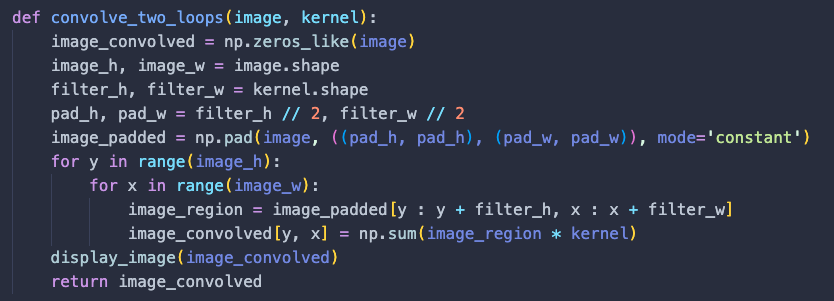
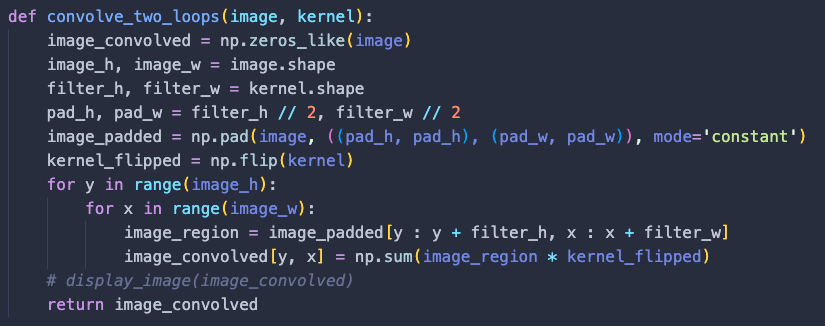
finished project 2

Changed region(s): [[0.0, 0.0299, 0.9697, 0.9867]]

diff --git a/2/index.html b/2/index.html
@@ -107,9 +107,22 @@
                     The first part of this project involves implementing convolutions from scratch,
                     using only NumPy operations. There are multiple ways to do this. Below are two
                     approaches: a naive approach uses four for loops and a vectorized approach uses
-                    two, where the runtime of the latter is improved significantly.
+                    two, where the runtime of the latter is improved significantly. In both cases,
+                    the process is as follows: pad the images with zeros, flip the kernel (this
+                    distinguishes convolutions from cross-correlation), iterate through the entire
+                    image in row-major order, sum up the elementwise products between the image and
+                    the kernel within each window, return the convolved image.
                 </p>
 
+                <div class="image-grid">
+                    <div class="image-pair">
+                        <img
+                            src="in_path/convolution_formula.png"
+                            alt="The Formula for Discrete Convolutions"
+                        />
+                        <p>The Formula for Discrete Convolutions</p>
+                    </div>
+                </div>
                 <div class="image-grid">
                     <div class="image-pair">
                         <img src="in_path/conv_4.png" alt="Convolutions (Four Loops)" />
@@ -181,9 +194,23 @@
                 <p>
                     To showcase the power of finite difference operators, I computed the partial
                     derivative in x and y of the cameraman image. Then, I computed the binarized
-                    gradient magnitude image.
+                    gradient magnitude image, for which I needed to qualitatively compute an
+                    appropriate threshold. Ultimately, I ended up choosing 0.3: values closer to 0.2
+                    were too lenient and ended up showing a lot of the grass edges, which were not
+                    of any interest, and values closer to 0.4 were too harsh and ended up removing
+                    many of the important edges, such at those seen on the coat of the man and on
+                    the legs of the camera.
                 </p>
 
+                <div class="image-grid">
+                    <div class="image-pair">
+                        <img
+                            src="in_path/gradient_magnitude.png"
+                            alt="The Formula for the Gradient Magnitude of an Image"
+                        />
+                        <p>The Formula for the Gradient Magnitude of an Image</p>
+                    </div>
+                </div>
                 <div class="image-grid">
                     <div class="image-pair">
                         <img src="in_path/cameraman.png" alt="Cameraman Image" />
@@ -210,16 +237,21 @@
             <div class="section">
                 <h2>Derivative of Gaussian (DoG) Filter</h2>
                 <p>
-                    Since having the difference operator alone does nothing to get rid of noise in
-                    the results, I used the Gaussian filter to first blur the image, then compute
-                    the binarized gradient magnitude. By doing this, one can get rid of the noise in
-                    the image and capture the most prominent edges. This can also be done by
-                    creating derivate of gaussian (DoG) filters, where the gaussian is convolved
-                    with D_x and D_y, then used to compute the gradient magnitude image. The results
-                    of both methods are shown below, as well as the filters themselves
-                    (kernel_size=25, sigma=5).
+                    Since having the difference operator alone has some difficulties getting rid of
+                    the noise in the results, I used the Gaussian filter to first blur the image,
+                    then compute the binarized gradient magnitude. By doing this, one can get rid of
+                    the noise in the image and capture the most prominent edges. This can also be
+                    done by creating derivate of gaussian (DoG) filters, where the gaussian is
+                    convolved with D_x and D_y, then used to compute the gradient magnitude image.
+                    The results of both methods are shown below (which achieve very similar
+                    results), as well as the filters themselves. For the parameters of the Gaussian
+                    filter, I ended up choosing the kernel size to be 25 and the sigma to be 5; A
+                    larger kernel size equates to a larger blurring window during convolutions, and
+                    a larger sigma value means that the kernel's underlying Gaussian distribution
+                    has more spread, which means that the blur is more pronounced. I found that
+                    these values gave me enough blur in order to effectively reduce a lot of the
+                    noise.
                 </p>
-
                 <div class="image-grid">
                     <div class="image-pair">
                         <img
@@ -254,12 +286,27 @@
                 <p>
                     Now that we can do basic convolutions on images, it is now possible to take a
                     blurry image and "sharpen" it. This is done using the unsharp masking technique.
-                    In essense, you subtract the blurred image from the original image, and this
-                    acts as a high pass filter (alpha=5). These high frequencies are added to the
-                    original image to get a "sharp" look. This process can be combined into a single
-                    convolution operation called the unsharp mask filter. Results of this filter on
-                    multiple images are shown below.
+                    The idea is to construct a high-pass filter in order to extract the highest
+                    frequencies of an image, which make the image look sharp. This high-pass filter
+                    is derived by subtracting the blurred image from the original image. These high
+                    frequencies are added to the original image to get a sharp look. You can adjust
+                    the intensity of the sharpness by scaling these high frequencies by a parameter,
+                    alpha. In the examples that follow, alpha was chosen to be 5, which strikes a
+                    balance between modest sharpening and the distorted "deep-fried" look associated
+                    with higher parameter values. In addition, this entire process can be combined
+                    into a single convolution operation called the unsharp mask filter, which is the
+                    result of the rightmost equality in the derivation below. Attached are results
+                    of the unsharp masking on a variety of images.
                 </p>
+                <div class="image-grid">
+                    <div class="image-pair">
+                        <img
+                            src="in_path/unsharp_mask_filter.png"
+                            alt="The Derivation of the Unsharp Mask Filter"
+                        />
+                        <p>The Derivation of the Unsharp Mask Filter</p>
+                    </div>
+                </div>
                 <div class="image-grid-3">
                     <div class="image-pair">
                         <img src="in_path/taj.jpg" alt="The Taj Mahal" />
@@ -319,9 +366,9 @@
                 </div>
 
                 <p>
-                    You can also take an image, blur it, and try to sharpen it again. It's difficult
-                    to recover the original image, but you can get pretty close. Here is an example
-                    of that:
+                    You can also take an image, blur it, and try to sharpen it again. It turns out
+                    that by have a kernel size of 9, sigma of 1, and alpha of 3, you can get pretty
+                    close to the original image. Here is an example of that:
                 </p>
                 <div class="image-grid-3">
                     <div class="image-pair">
@@ -346,7 +393,12 @@
                     respectively, it is possible to create hybrid images, or images that change
                     based on the viewing distance. This is possible by taking the high frequency
                     portion of one image and stacking it on top of the lower frequency portion of
-                    another image. Below is an example of a hybrid image on Derek and Nutmeg.
+                    another image. In order to find the optimal cutoff frequencies and achieve the
+                    best resulting hybrid images, I chose the following parameters for blurring the
+                    first image and sharpening the second: kernel size = 25, alpha = 3, sigma1 = 5,
+                    sigma2 = 5. After much experimentation, I found that this specific configuration
+                    of parameters made both images noticable at their respective viewing distances.
+                    Below is an example of a hybrid image on Derek and Nutmeg.
                 </p>
                 <div class="image-grid-3">
                     <div class="image-pair">
@@ -387,9 +439,11 @@
                 <p>
                     Finally, here is an example of a hybrid image between two presidents: George
                     Washington and Thomas Jefferson. This time, I have included images documenting
-                    the entire process, including intermediate images showing the log magnitude of
-                    the Fourier Transform. Notice how lower-frequency images have more activity near
-                    the center, whereas higher-frequency images have more activity near the edges.
+                    the entire process, such as blurred and sharpened images, as well as showing the
+                    log magnitude of the Fourier Transform for each of these images (aside: both
+                    images already came pre-aligned). Notice how lower-frequency images have more
+                    activity near the center, whereas higher-frequency images have more activity
+                    near the edges.
                 </p>
                 <div class="image-grid">
                     <div class="image-pair">
@@ -466,17 +520,35 @@
                 </div>
             </div>
             <div class="section">
-                <h2>Gaussian and Laplacian stacks</h2>
+                <h2>Gaussian Stacks, Laplacian Stacks, and Multiresolution Blending</h2>
                 <p>
-                    Now, the goal is to implement mutli-resolution blending, or joining two images
+                    Now, the goal is to implement multi-resolution blending, or joining two images
                     across a smooth seam, called an image spline. This is done by computing this
-                    seam for multiple bands across the entire range of image frequencies. This
-                    ensures a smooth transition between the two images.
+                    seam for multiple bands across the entire range of image frequencies. The
+                    process is quite involved, and is as follows: create laplacian stacks for both
+                    images, then create a gaussian stack for the mask (which will blur the seam and
+                    make the transition smooth). Now, on a layer-by-layer basis, add the
+                    multiplication of the blurred mask and the lth image of image 1's laplacian
+                    stack to the multiplication of the blurred mask's complement and the lth image
+                    of image 2's laplacian stack (this step is outlined in the formula below).
+                    Finally, sum up all the levels of resulting image blends to generate the final,
+                    blended image. This entire process is necessary in order to ensure that a smooth
+                    transition between the two images is created.
                 </p>
 
+                <div class="image-grid">
+                    <div class="image-pair">
+                        <img
+                            src="in_path/image_blending.png"
+                            alt="The Formula for the lth Layer of the Blended Image"
+                        />
+                        <p>The Formula for the lth Layer of the Blended Image</p>
+                    </div>
+                </div>
+
                 <p>
-                    First, we need to implement Gaussian stacks, which are a series of images where
-                    the Gaussian filter is successively applied, one after the other (without
+                    The first step is implementing Gaussian stacks, which are a series of images
+                    where the Gaussian filter is successively applied, one after the other (without
                     subsampling). Here is an example of these operations on a car:
                 </p>
                 <div class="image-grid">
@@ -517,7 +589,13 @@
 
                 <p>
                     Finally, we can generate the oraple, which is just a multi-resolution blend
-                    between an apple and an orange.
+                    between an apple and an orange. The entire process is displayed below: each row
+                    represents a layer of the mutliresolution blend, where the left image is the
+                    mask applied to image 1, the middle image is the mask complement applied to
+                    image 2, and the right image is the addition of the two. As you move down the
+                    rows, you also move down in the frequency bands of the image. The bottom-most
+                    row shows the resulting blends of that image's respective column, and the bottom
+                    right image is the final result.
                 </p>
 
                 <div class="image-grid-3">
@@ -577,12 +655,14 @@
                 </div>
             </div>
             <div class="section">
-                <h2>Multiresolution Blending</h2>
                 <p>
-                    Now, we have the tools to blend a variety of images together. Furthermore, these
-                    two images do not necessarily have to be joined across a vertical seam like the
-                    oraple shownn below. Here are two examples of multi-resolution blends across
-                    non-linear seams (e.g. circular).
+                    Now, we have the tools to blend a variety of images together. Further, these two
+                    images do not have to be joined across a vertical seam like the oraple. You can
+                    also construct a circular seam, which is generated by specifying a radius and
+                    zeroing out all pixels in the mask that are further than the radius away from
+                    the image center. This is more involved than the vertical seam, which simply
+                    zeroes out all pixels in the mask that are on the right-half of the image. Here
+                    are some examples of multi-resolution blends across both types of seams:
                 </p>
                 <div class="image-grid-3">
                     <div class="image-pair">
@@ -599,24 +679,24 @@
                     </div>
                 </div>
 
-                <!-- <div class="image-grid-3">
+                <div class="image-grid-3">
                     <div class="image-pair">
-                        <img src="in_path/tree.jpg" alt="A Tree" />
-                        <p>A Tree</p>
+                        <img src="in_path/pokeball.png" alt="A Poke Ball" />
+                        <p>A Poke Ball</p>
                     </div>
                     <div class="image-pair">
-                        <img src="in_path/desert.jpg" alt="A Desert" />
-                        <p>A Desert</p>
+                        <img src="in_path/greatball.png" alt="A Great Ball" />
+                        <p>A Great Ball</p>
                     </div>
                     <div class="image-pair">
-                        <img src="out_path/desert_tree.jpg" alt="A Tree in the Desert" />
-                        <p>A Tree in the Desert</p>
+                        <img src="out_path/hybrid_ball.jpg" alt="A Hybrid Ball" />
+                        <p>A Hybrid Ball</p>
                     </div>
-                </div> -->
+                </div>
 
                 <div class="image-grid-3">
                     <div class="image-pair">
-                        <img src="in_path/jordan.jpg" alt="Michael Jordan Crying" />
+                        <img src="in_path/crying_jordan.png" alt="Michael Jordan Crying" />
                         <p>Michael Jordan Crying</p>
                     </div>
                     <div class="image-pair">
@@ -624,8 +704,11 @@
                         <p>The Sun</p>
                     </div>
                     <div class="image-pair">
-                        <img src="out_path/crying-jordan.jpg" alt="The Jordan Crying Sun Meme" />
-                        <p>The Jordan Crying Sun Meme</p>
+                        <img
+                            src="out_path/crying_jordan_sun.jpg"
+                            alt="The Jordan Crying Sun Meme"
+                        />
+                        <p>The Jordan Crying Sun Meme (radius=32)</p>
                     </div>
                 </div>
             </div>
